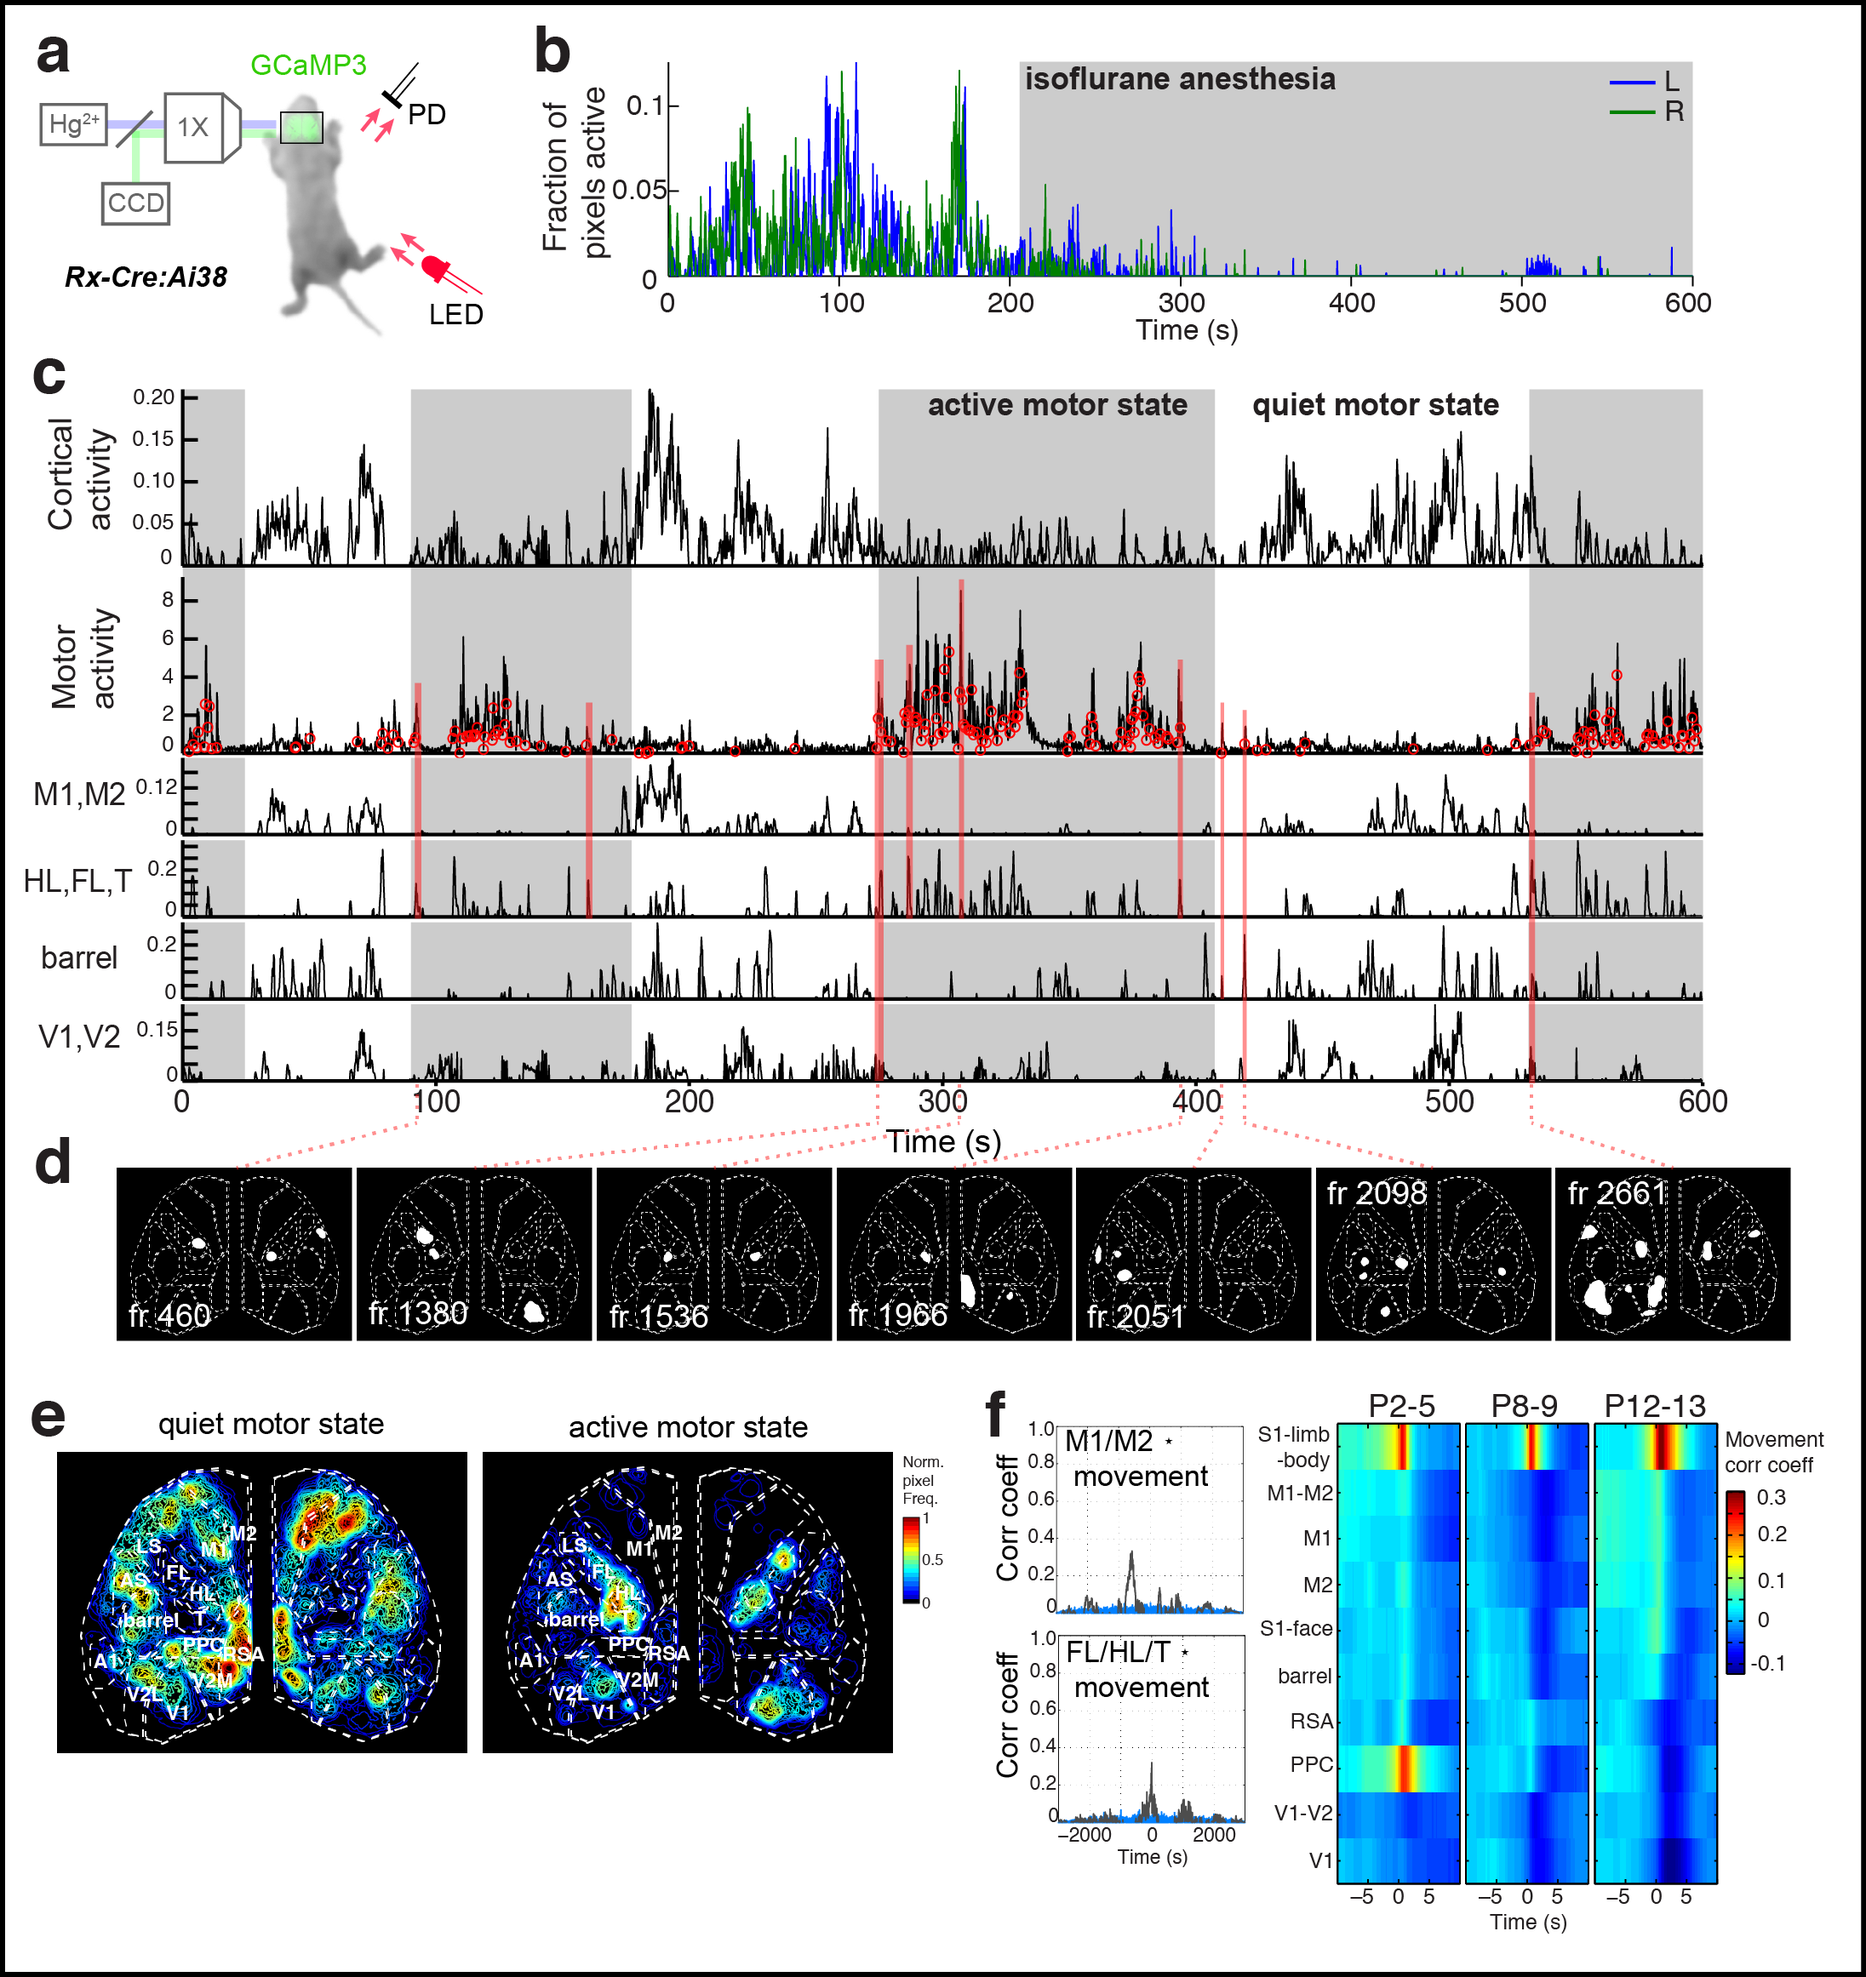
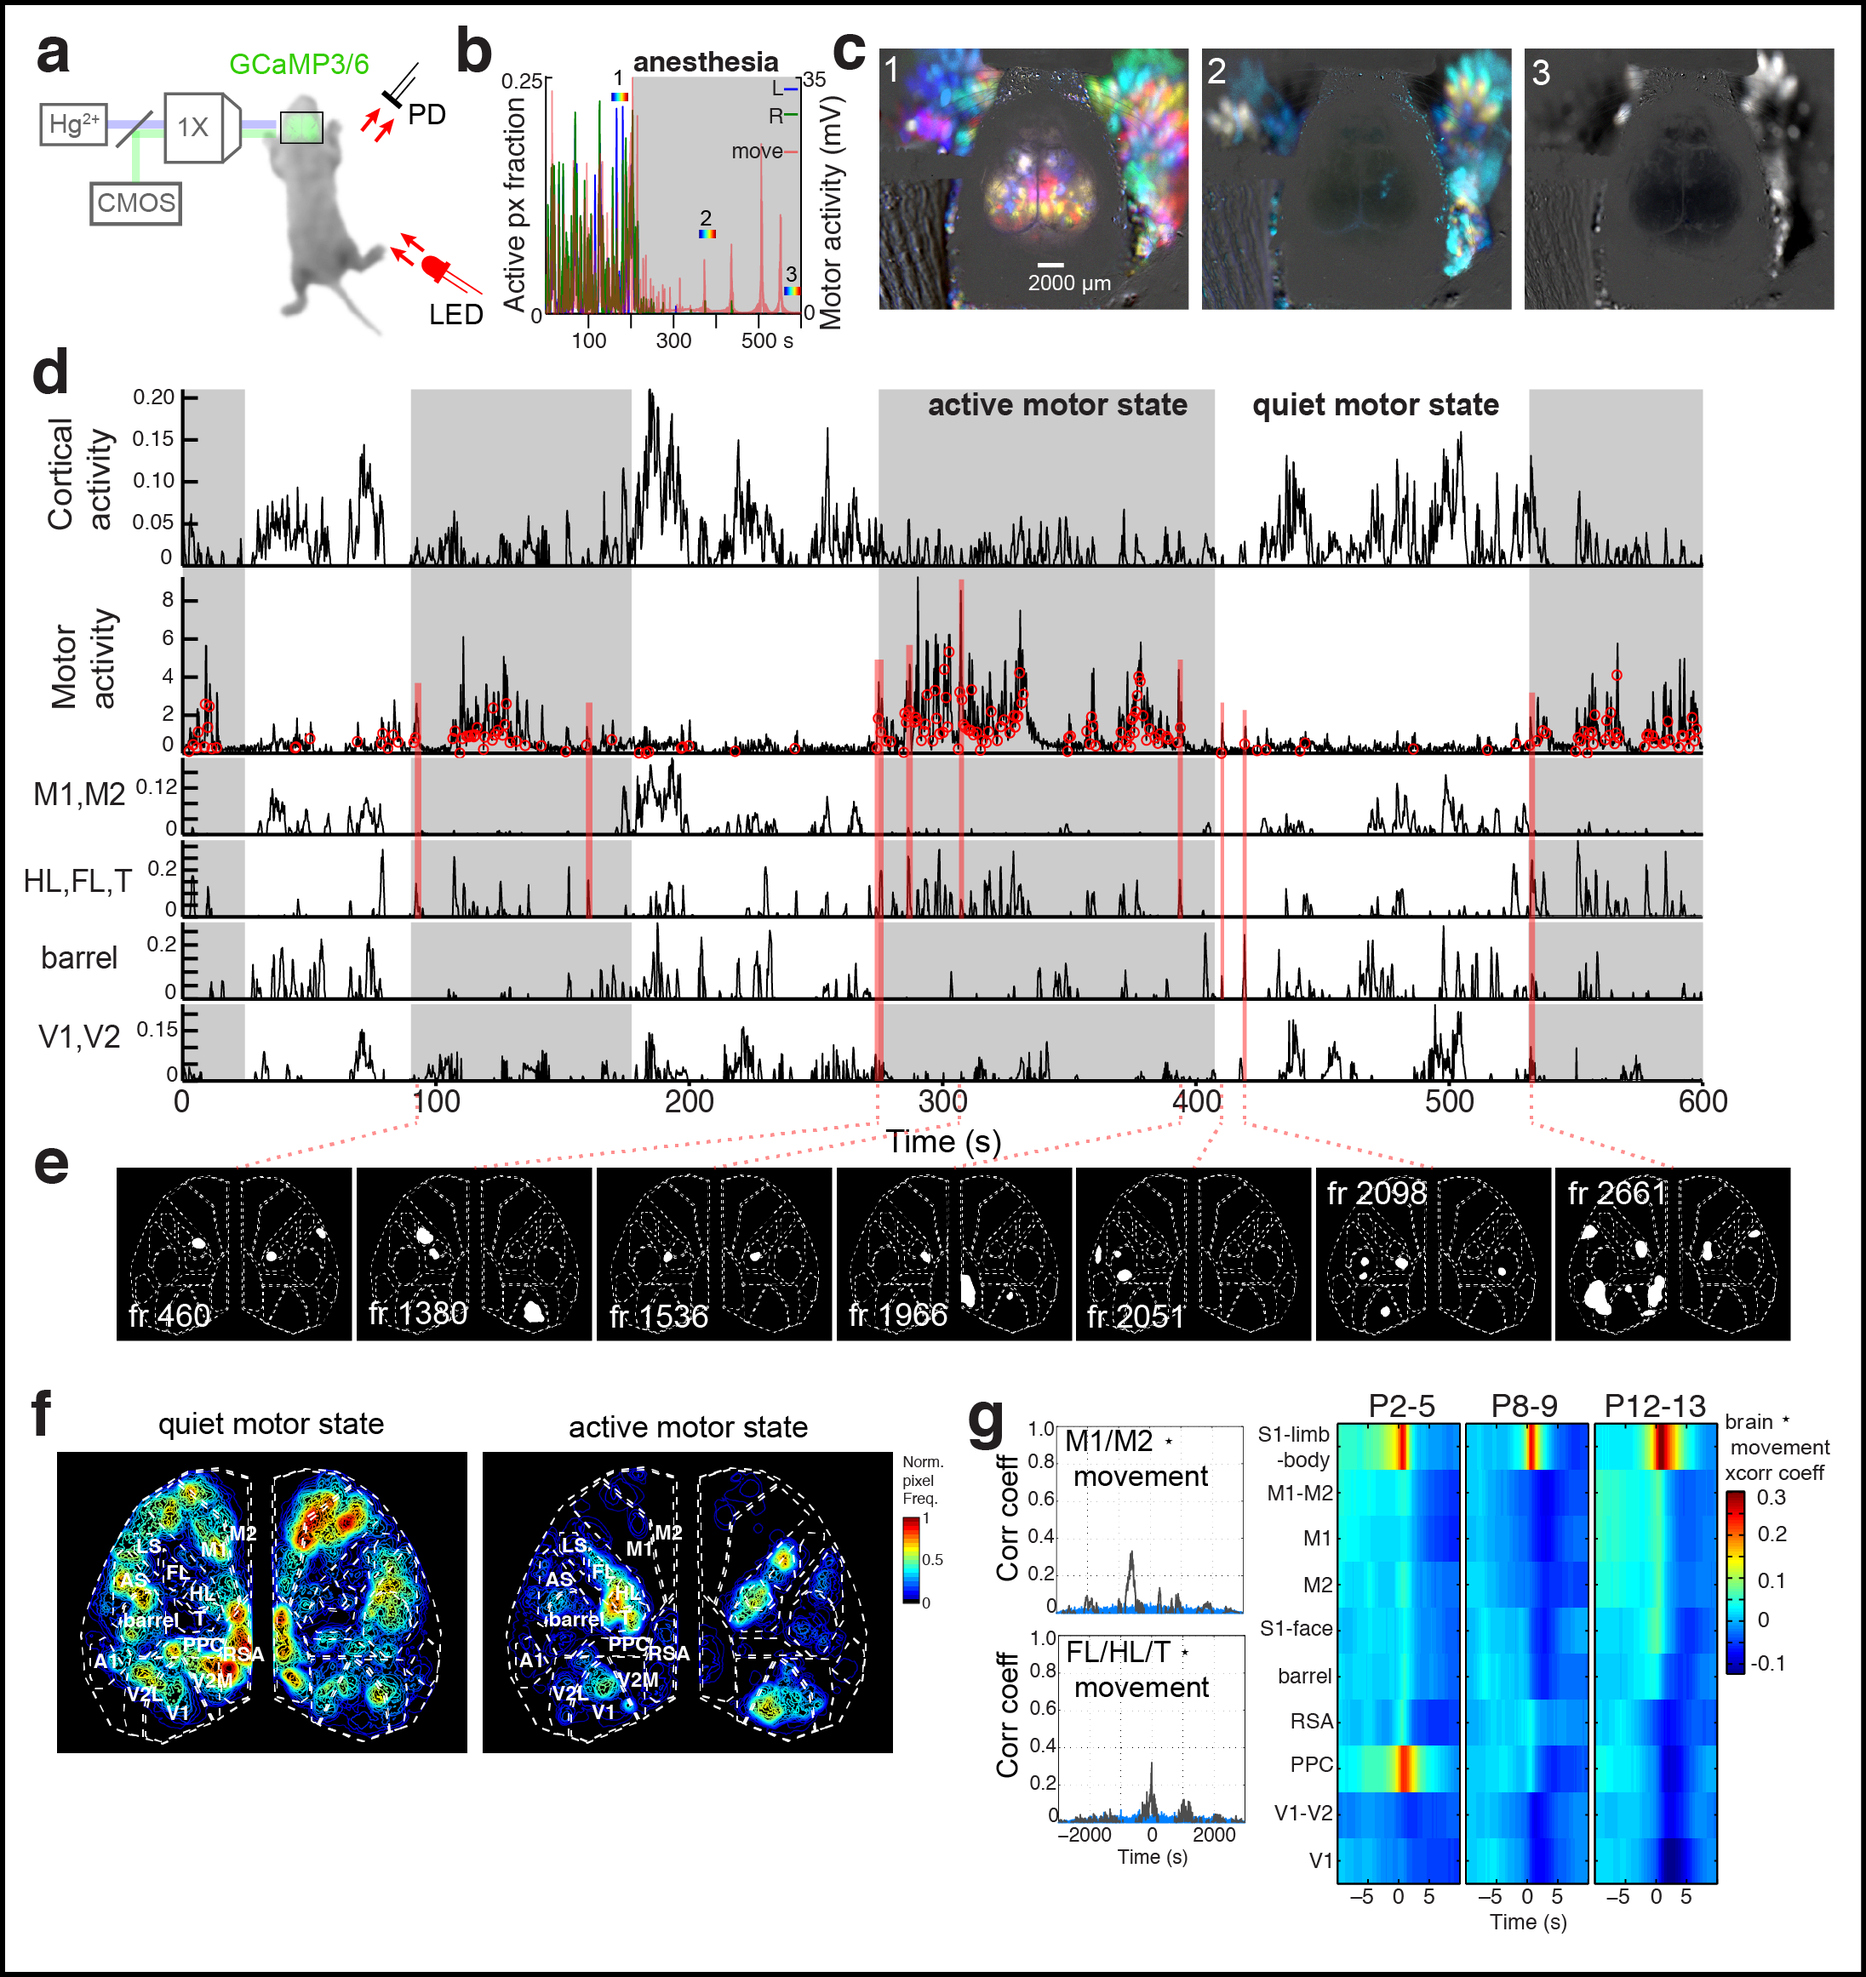
fig work

diff --git a/wholeBrain_main.md b/wholeBrain_main.md
@@ -26,6 +26,7 @@ We performed transcranial optical recordings from mice expressing the genetic ca
 
 Functional mesoscale optical imaging (fMOI) revealed that supracellular cortical activity patterns were characterized by discrete domains of activation (Fig. 1a-c) [Supplementary Movie 1](../wholeBrain_blob/ackmanWholeBrainGcampP3.mov). These activity domains ranged from 250 - 976 µm in diameter and 0.4 - 2.6 s in duration <!--(10-90th percentiles)-->(Fig. 1e-h) (Table 1.) . The duration of cortical domain activations was not significantly affected by age (F = 0.933, p = 0.428, r^2 = 0.00567) or by hemisphere (F = 0.017, p = 0.900) (P2-5, N = 15653; P8-9, N = 70189; P12-13, N = 120214 domains) (Fig. 1e,f). There was a significant effect of age on the diameter of cortical domain activations (F = 25.788, p = 0.000188, r^2 = 0.1277), but not hemisphere (F = 0.192, p = 0.671808) (Fig. 1g,h). The frequency with which cortical domain activations occurred increased with age (F = 29.562, p = 8.86e-12, r^2 = 0.2535) and did not differ significantly between the hemispheres (F = 0.012, p = 0.911) (P2-5, N = 22; P8-9, N = 30; P12-13, N = 38 movies/hemi) (Fig. i,j) (Table 1).
 
+
 The neocortex exhibits a characteristic modular organization across the cortical surface such that vertical arrays of cells concerned with specific sensory features are grouped together as columns in a topographic fashion [#Mountcastle:1997]. Most evidence suggests that cortical columns range from 300-600µm diameter, even between species whose brain volumes differ by a factor of 10^3 [#Mountcastle:1997]. Its intriguing that we found the size of cortical domains to be centered on this range at early ages, because this is in agreement with previous work showing that population activity in neonatal rat barrel cortex maps onto ontogenetic modules centered on each barrel column [#Yang:2012a] and barrels are an archetypical model for columnar cortical function in rodent. Indeed, we found a cortical area in primary somatosensory cortex at P2-5 where cortical domain activations group into rows and individual modules that match primary barrel cortex structure (Fig. 1c) (Supplementary Fig.). This indicates that early cortical activity in some cortical areas is matched to the size the functional cortical modules that are thought to be the fundamental procdessing unit of the cerebral cortex. 
 
 
@@ -40,6 +41,7 @@ The neocortex exhibits a characteristic modular organization across the cortical
 | Notes: Values are reported as medians (median absolute deviation) ||||
 [ **Table 1: Domain statistics**]
 
+## Domain activity dynamics varies among cortical regions
 
 We examined how the spatiotemporal properties of cortical domains vary among different cortical regions by parcellating the brain into distinct anatomical boundaries using reference coordinates from a mouse line that expressed a tdtomato reporter in thalamocortical afferents at P7 (Fig. 1c,d) (Supplementary Fig.). Patterns of thalamocortical axon terminals can be used to map out areal boundaries of primary sensory cortical areas [wong riley 1979]. We matched these parcellations to a Allen brain atlas adult mouse reference image and than linearly scaled the cortical area reference boundaries for each animal to maps containing functional boundaries for barrel cortex and visual cortex where spontaneous retinal waves functionally map out developing visual areas [#Ackman:2012]  (Fig. 1c-e,g,i). 
 
@@ -52,11 +54,11 @@ Cortical domain frequency among different regions scaled as a function of net co
 
 ## Cortical domain activity is coordinated with motor behavior
 
-Next we assessed mesoscale cortical activity patterns as a function of physiological state and motor behavior. It has previously been demonstrated that general anesthesia abolishes spontaneous retinal wave activity in visual system [#Ackman:2012]. We found that during anesthesia induction, there is rapid (<60 s) knock down of cortical activity (Supplementary Movie) (Supplementary Fig) at all ages. While in neonates, no cortical activity was found during general anesthesia in neonates, at P12-13 we found altered spontaneous patterns, with short duration, large diameter population activities synchronizing multiple cortical areas. (Supplementary Movie)
+Next we assessed mesoscale cortical activity patterns as a function of physiological state and motor behavior. It has previously been demonstrated that general anesthesia abolishes spontaneous retinal wave activity in visual system [#Ackman:2012]. We found that during anesthesia induction, there is rapid (<60 s) knock down of cortical activity (Supplementary Movie) (Supplementary Fig) at all ages. While in neonates, no cortical activity was found during general anesthesia, at P12-13 within ~10-20min after general induction we found altered spontaneous patterns, with short duration, large diameter population activities synchronizing multiple cortical regions. (Supplementary Movie)
 
-Variation in the strength of correlation between cortical areas and the motor movement signal depended on brain region (p < 2.2e-16, anova) and age (p = 1.627e-05, anova)  The first age group in which motor cortex exhibited signficant positive correlation with motor movements was at P12-13 (r=0.06±0.02, p-value = 0.001449, t-test).
+We monitored motor movements simultaneously with cortical activity during our fMOI recordings to gain insight into the relationship between motor behavior output to cerebral cortical dynamics during development. The highest levels of synchronized cortical domain activity occurred during periods of relatively sparse motor behavior whereas the lowest levels of synchronized cortical activity occurred during periods of increased motor movement (Fig. 3c-e). Variation in the strength of correlation between cortical areas and the motor movement signal depended on both brain region (p < 2.2e-16, anova) and age (p = 1.627e-05, anova) (Fig 3c-f). Interestingly, the first age group in which motor cortex exhibited signficant positive correlation with motor movements was at P12-13 (r=0.06±0.02, p-value = 0.001449, t-test) (Fig. 3f).
 
-![ **Figure 3**. Cortical domains are state dependent. **a** Experimental schematic. Red light illumination measured with a photodiode (PD) was used to monitor motor activity. **b** Cortical activity (active fraction) in each hemisphere after onset of gas anesthetic. **c** Cortical activity and coincident motor activity signals. Gray shading indicates active and quiet motor periods determined by the half-rise and decay times from peak in the low pass filtered motor signal. Active pixel fraction traces for motor (M1,M2), somatosensory (HL,FL,T; barrel), and visual (V1,V2) cortex shown at bottom of panel. Red links show synchronized motor movements and brain activity with different cortical regions. **d** Single frame domain masks for times indicated in **c**. **e** Pixel activation frequency maps during quiet and active motor periods. **f** Cross-correlation functions between cortical regions and motor movement signals. Notice the general negative correlation between motor activity and all cortex activity signals (r = , p = ) and the high positive correlation between motor and S1-limb/body signals (r = 0.3019, p < 2.2e-16).](figure3.png)
+![ **Figure 3**. Cortical domains are state dependent. **a** Experimental schematic. Red light illumination measured with a photodiode (PD) was used to monitor motor activity. **b** Cortical activity (active fraction) in each hemisphere after onset of gas anesthetic. **c** Cortical activity and coincident motor activity signals. Gray shading indicates active and quiet motor periods determined by the half-rise and decay times from peak in the low pass filtered motor signal. Active pixel fraction traces for motor (M1,M2), somatosensory (HL,FL,T; barrel), and visual (V1,V2) cortex shown at bottom of panel. Red links show synchronized motor movements and brain activity with different cortical regions. **d** Single frame domain masks for times indicated in **c**. **e** Pixel activation frequency maps during quiet and active motor periods. **f** Cross-correlation functions between cortical regions and motor movement signals. Notice the general weak correlation between motor movement and all cortical activity signals (r = , p = ) and the high positive correlation between motor movement and S1-limb/body signals (r = 0.3019, p < 2.2e-16).](figure3.png)
 
 
 ## Cortical activity is mirrored between the hemispheres
